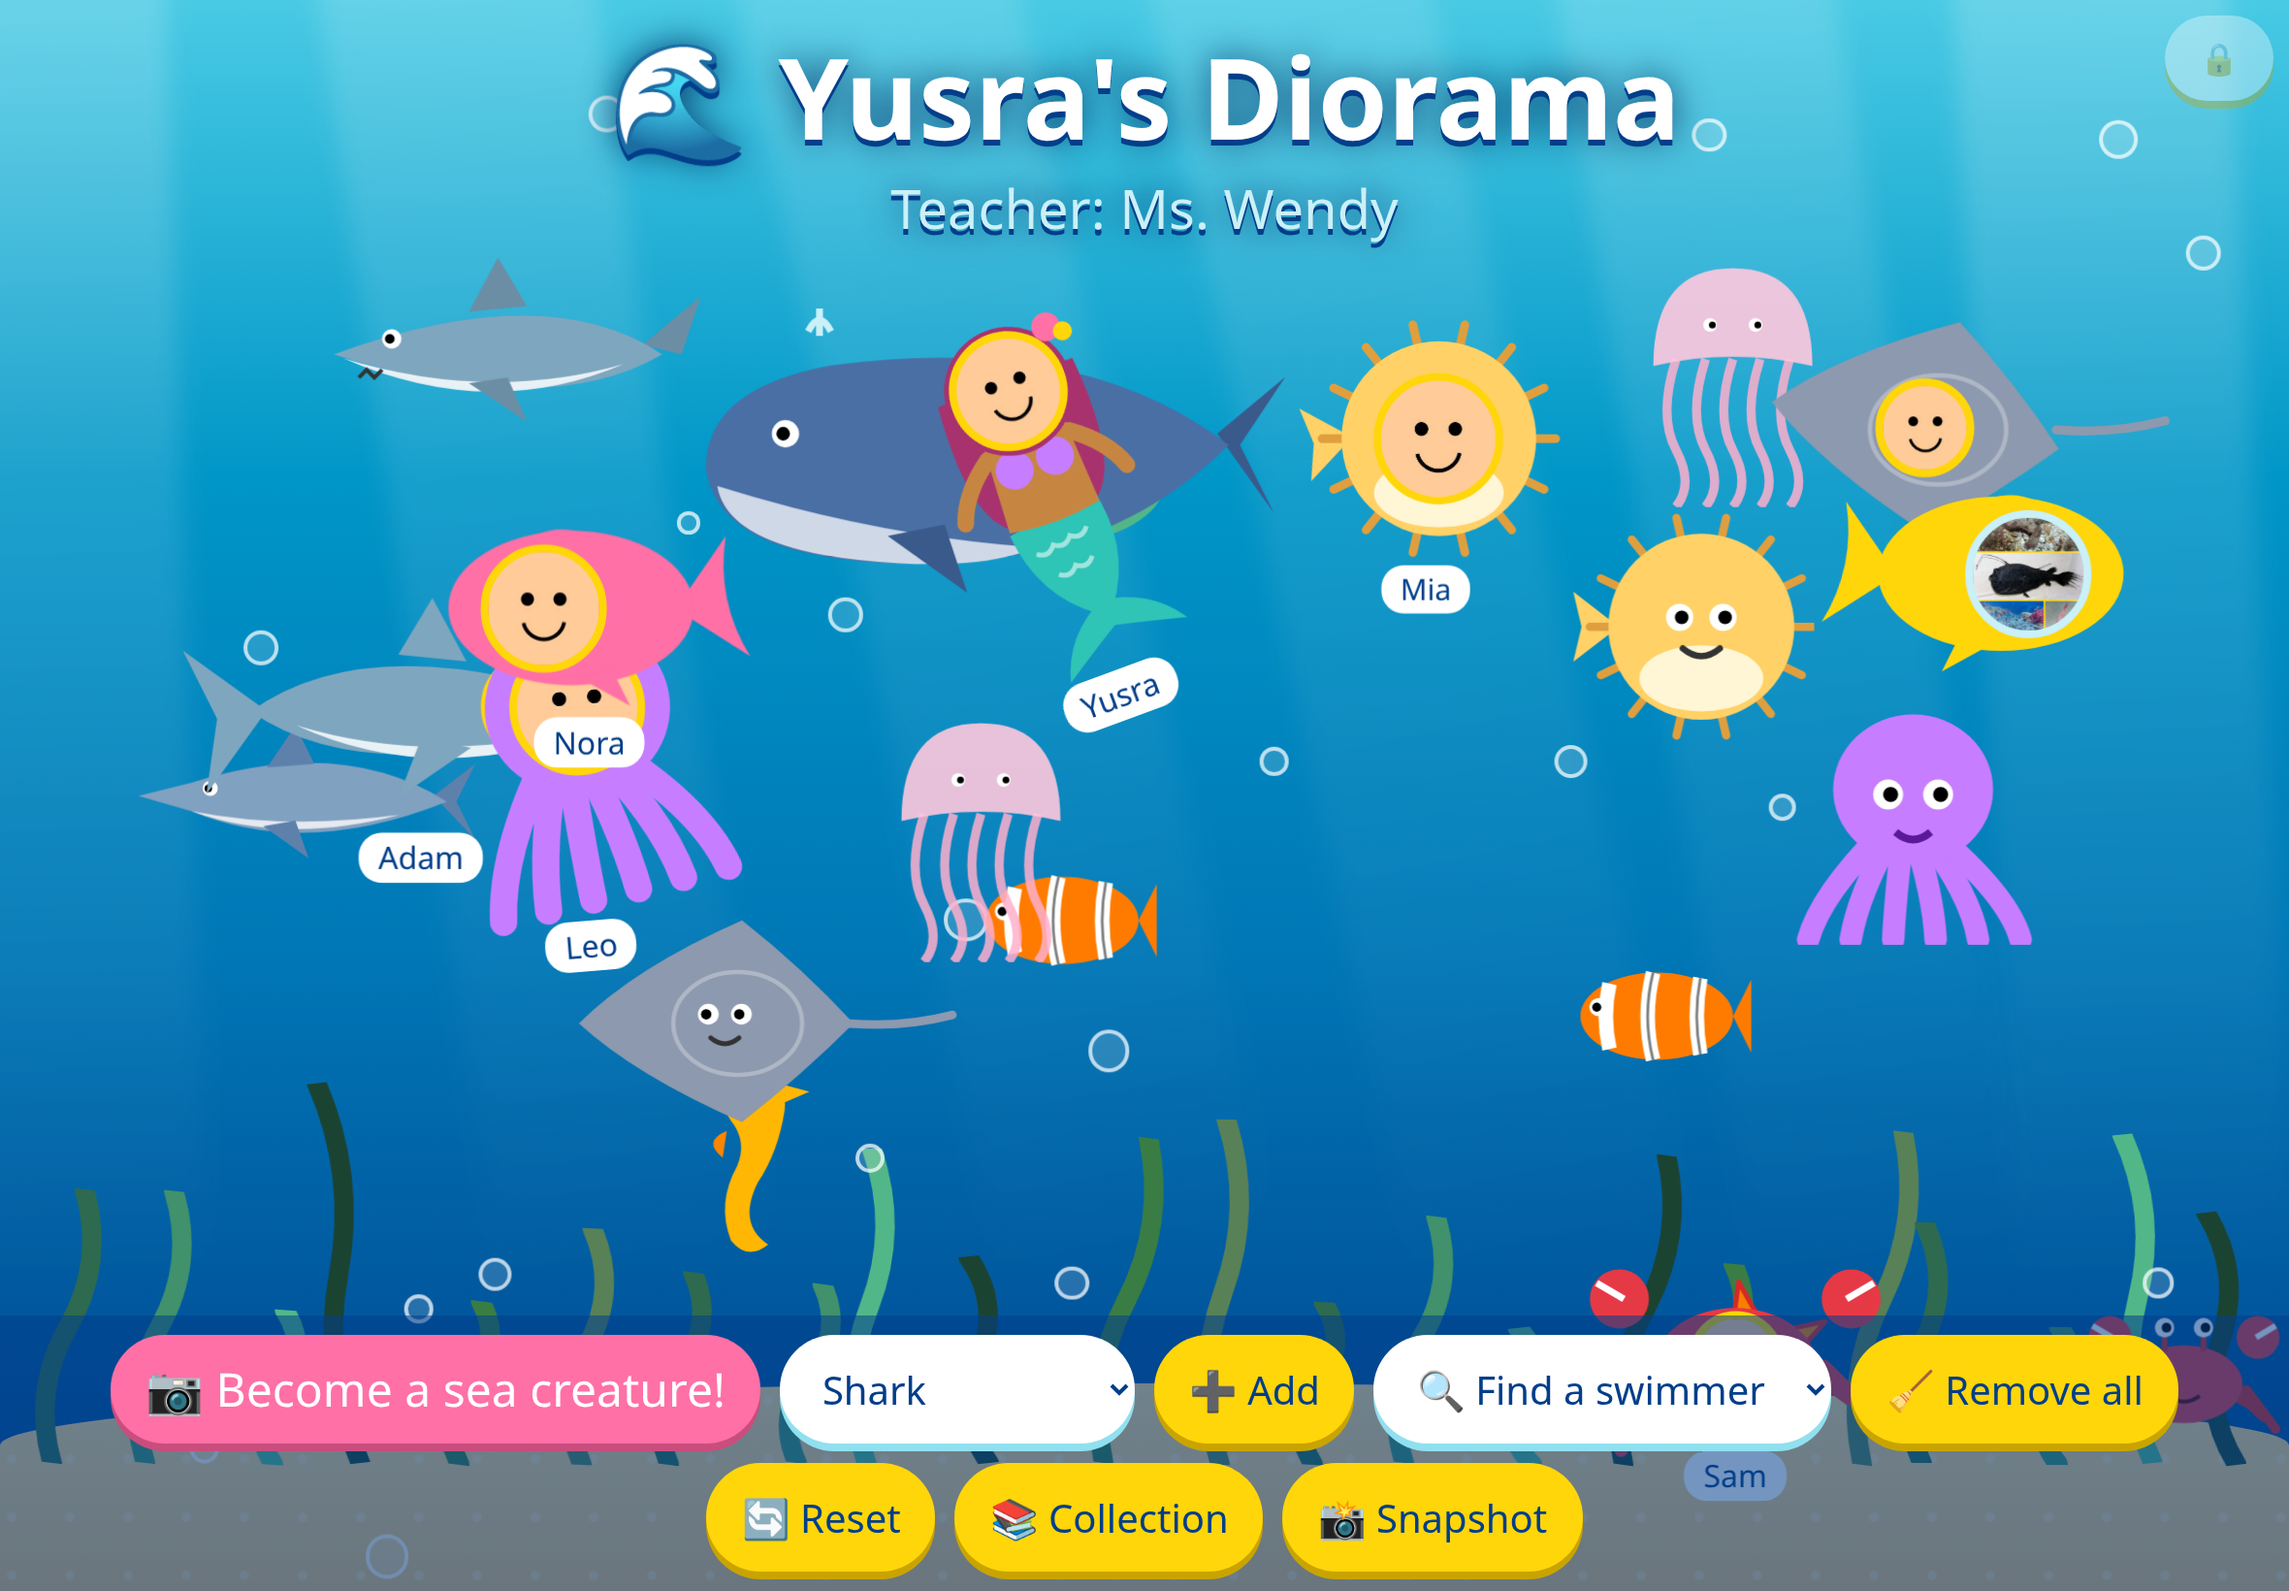
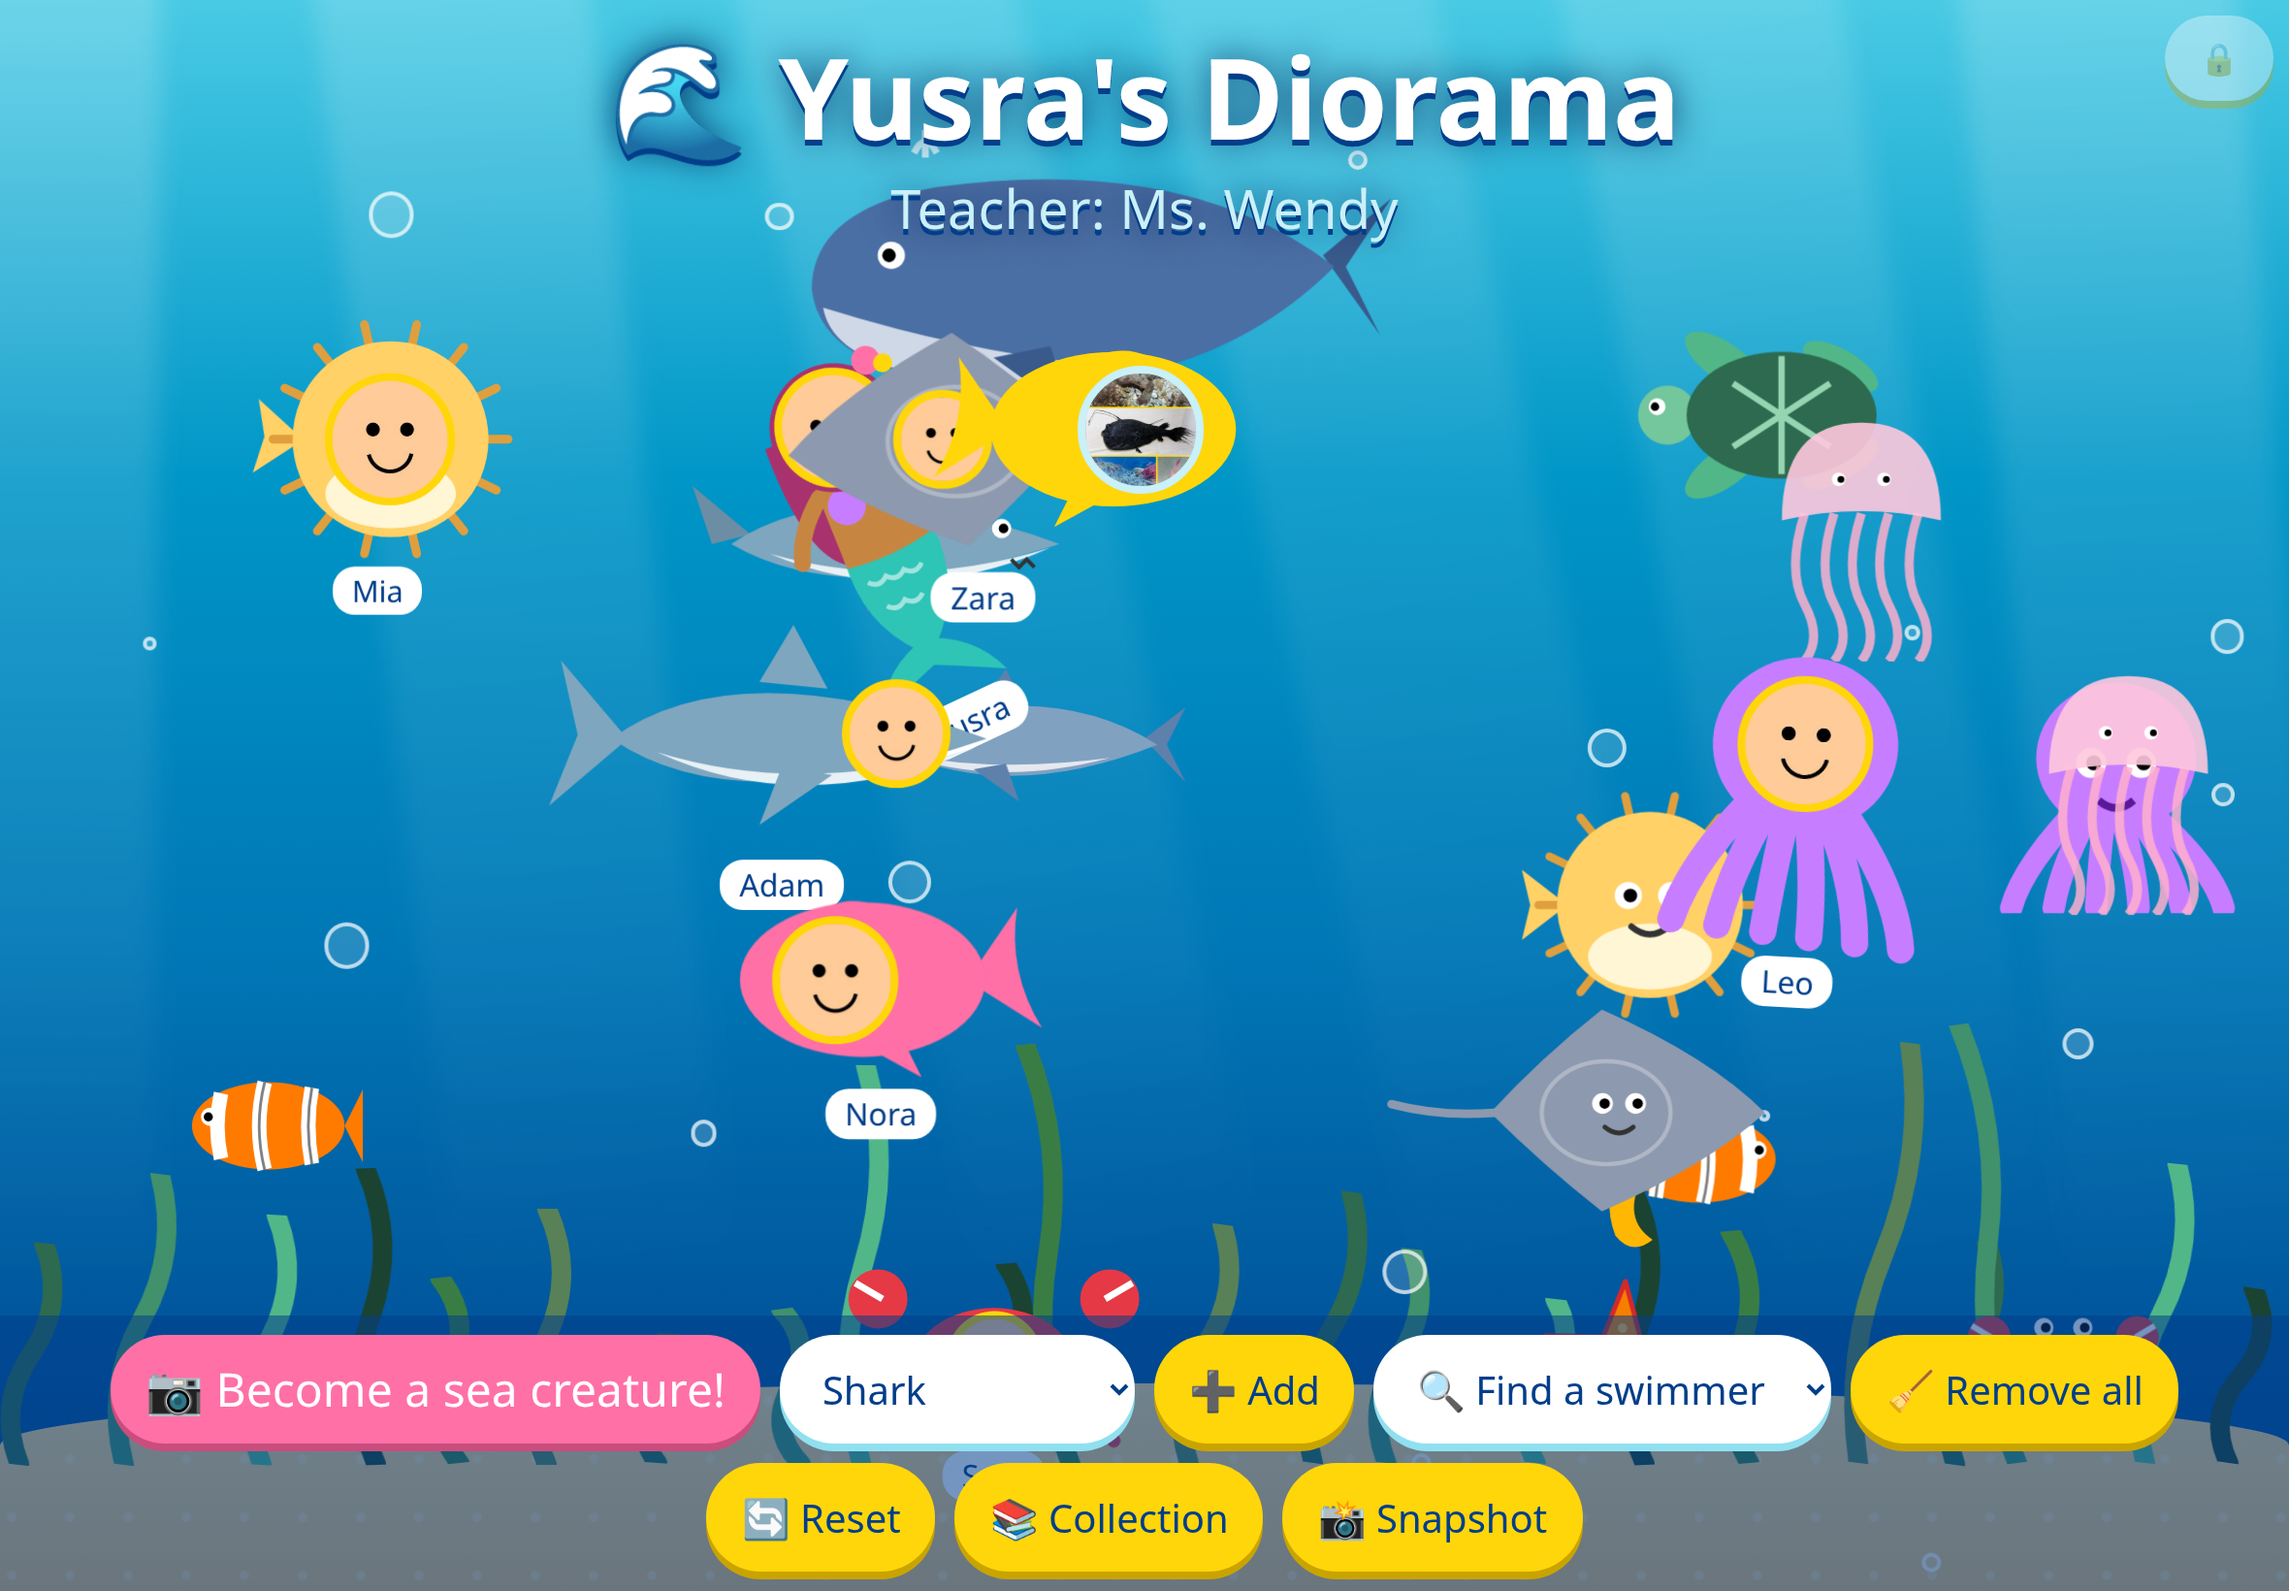
Floor selfies above controls; title; SW v2

diff --git a/app.js b/app.js
@@ -93,7 +93,7 @@ function spawn(type){const c=C[type]||resAsC(RES[type]),k=scale(),el=document.cr
  el.onclick=e=>{e.stopPropagation();showInfo(type)};sea.appendChild(el);things.push(t);refreshSel();return t}
 function spawnSelfie(s){if(things.some(t=>t.selfie&&t.selfie.id===s.id))return;const a=AV[s.av]||AV.mermaid,av=AV[s.av]?s.av:'mermaid',k=scale(),w=a.px*k,h=w*a.vb[1]/a.vb[0],el=document.createElement('div');el.className='cr selfie avt';
  const sk=SKIN[(s.id.charCodeAt(0)||0)%5];el.innerHTML=`<div class="body">${avSVG(av,s.col,sk)}</div>`;Object.assign(el.style,{width:w+'px',height:h+'px'});
- const t={id:++uid,selfie:s,av,m:a.m,el,w,h,x:Math.random()*(W-w),by:a.m==='floor'?H*.87-h*.7:H*(.15+Math.random()*.5),dir:Math.random()<.5?1:-1,sp:(a.m==='jelly'?.35:.6)+Math.random()*.5,ph:Math.random()*6};
+ const t={id:++uid,selfie:s,av,m:a.m,el,w,h,x:Math.random()*(W-w),by:a.m==='floor'?Math.min(H*.87,$('bar').offsetTop)-h*.95:H*(.15+Math.random()*.5),dir:Math.random()<.5?1:-1,sp:(a.m==='jelly'?.35:.6)+Math.random()*.5,ph:Math.random()*6};
  t.body=el.firstChild;t.face=circleEl(s.img,'face');el.appendChild(t.face);if(s.name){const l=document.createElement('div');l.className='lbl';l.textContent=s.name;el.appendChild(l)}placeFace(t);
  el.onclick=e=>{e.stopPropagation();toast('👋 Hi '+(s.name||'friend')+'! You are a '+(RES[s.av]?.title||a.n)+'!')};sea.appendChild(el);things.push(t);
  const ss=things.filter(t=>t.selfie).sort((a,b)=>a.selfie.t-b.selfie.t);while(ss.length>MAX_SELFIES)kill(ss.shift());refreshSel();return t}

diff --git a/index.html b/index.html
@@ -3,7 +3,7 @@
 <meta name="apple-mobile-web-app-capable" content="yes"><meta name="mobile-web-app-capable" content="yes">
 <meta name="apple-mobile-web-app-status-bar-style" content="black-translucent"><meta name="theme-color" content="#0077b6">
 <link rel="manifest" href="manifest.json"><link rel="icon" href="icon.svg"><link rel="icon" href="icon.svg"><link rel="apple-touch-icon" href="icon-192.png">
-<title>Yusra's Diorama · Teacher: Ms. Wendy</title>
+<title>Yusra's Diorama · Sea Creatures · Teacher: Ms. Wendy</title>
 <style>
 *{box-sizing:border-box;-webkit-tap-highlight-color:transparent;user-select:none;-webkit-user-select:none}
 html,body{margin:0;height:100%;overflow:hidden;font-family:"Comic Sans MS","Chalkboard SE","Marker Felt",system-ui,sans-serif;touch-action:manipulation}

diff --git a/sw.js b/sw.js
@@ -1,4 +1,4 @@
-const C='ocean-creatures-v1',F=['./','./index.html','./app.js','./manifest.json','./icon.svg','./icon-192.png','./icon-512.png'];
+const C='ocean-creatures-v2',F=['./','./index.html','./app.js','./manifest.json','./icon.svg','./icon-192.png','./icon-512.png'];
 self.addEventListener('install',e=>{e.waitUntil(caches.open(C).then(c=>c.addAll(F)));self.skipWaiting()});
 self.addEventListener('activate',e=>{e.waitUntil(caches.keys().then(k=>Promise.all(k.filter(x=>x!==C).map(x=>caches.delete(x)))));self.clients.claim()});
 self.addEventListener('fetch',e=>{if(e.request.method!=='GET'||new URL(e.request.url).origin!==location.origin)return;
